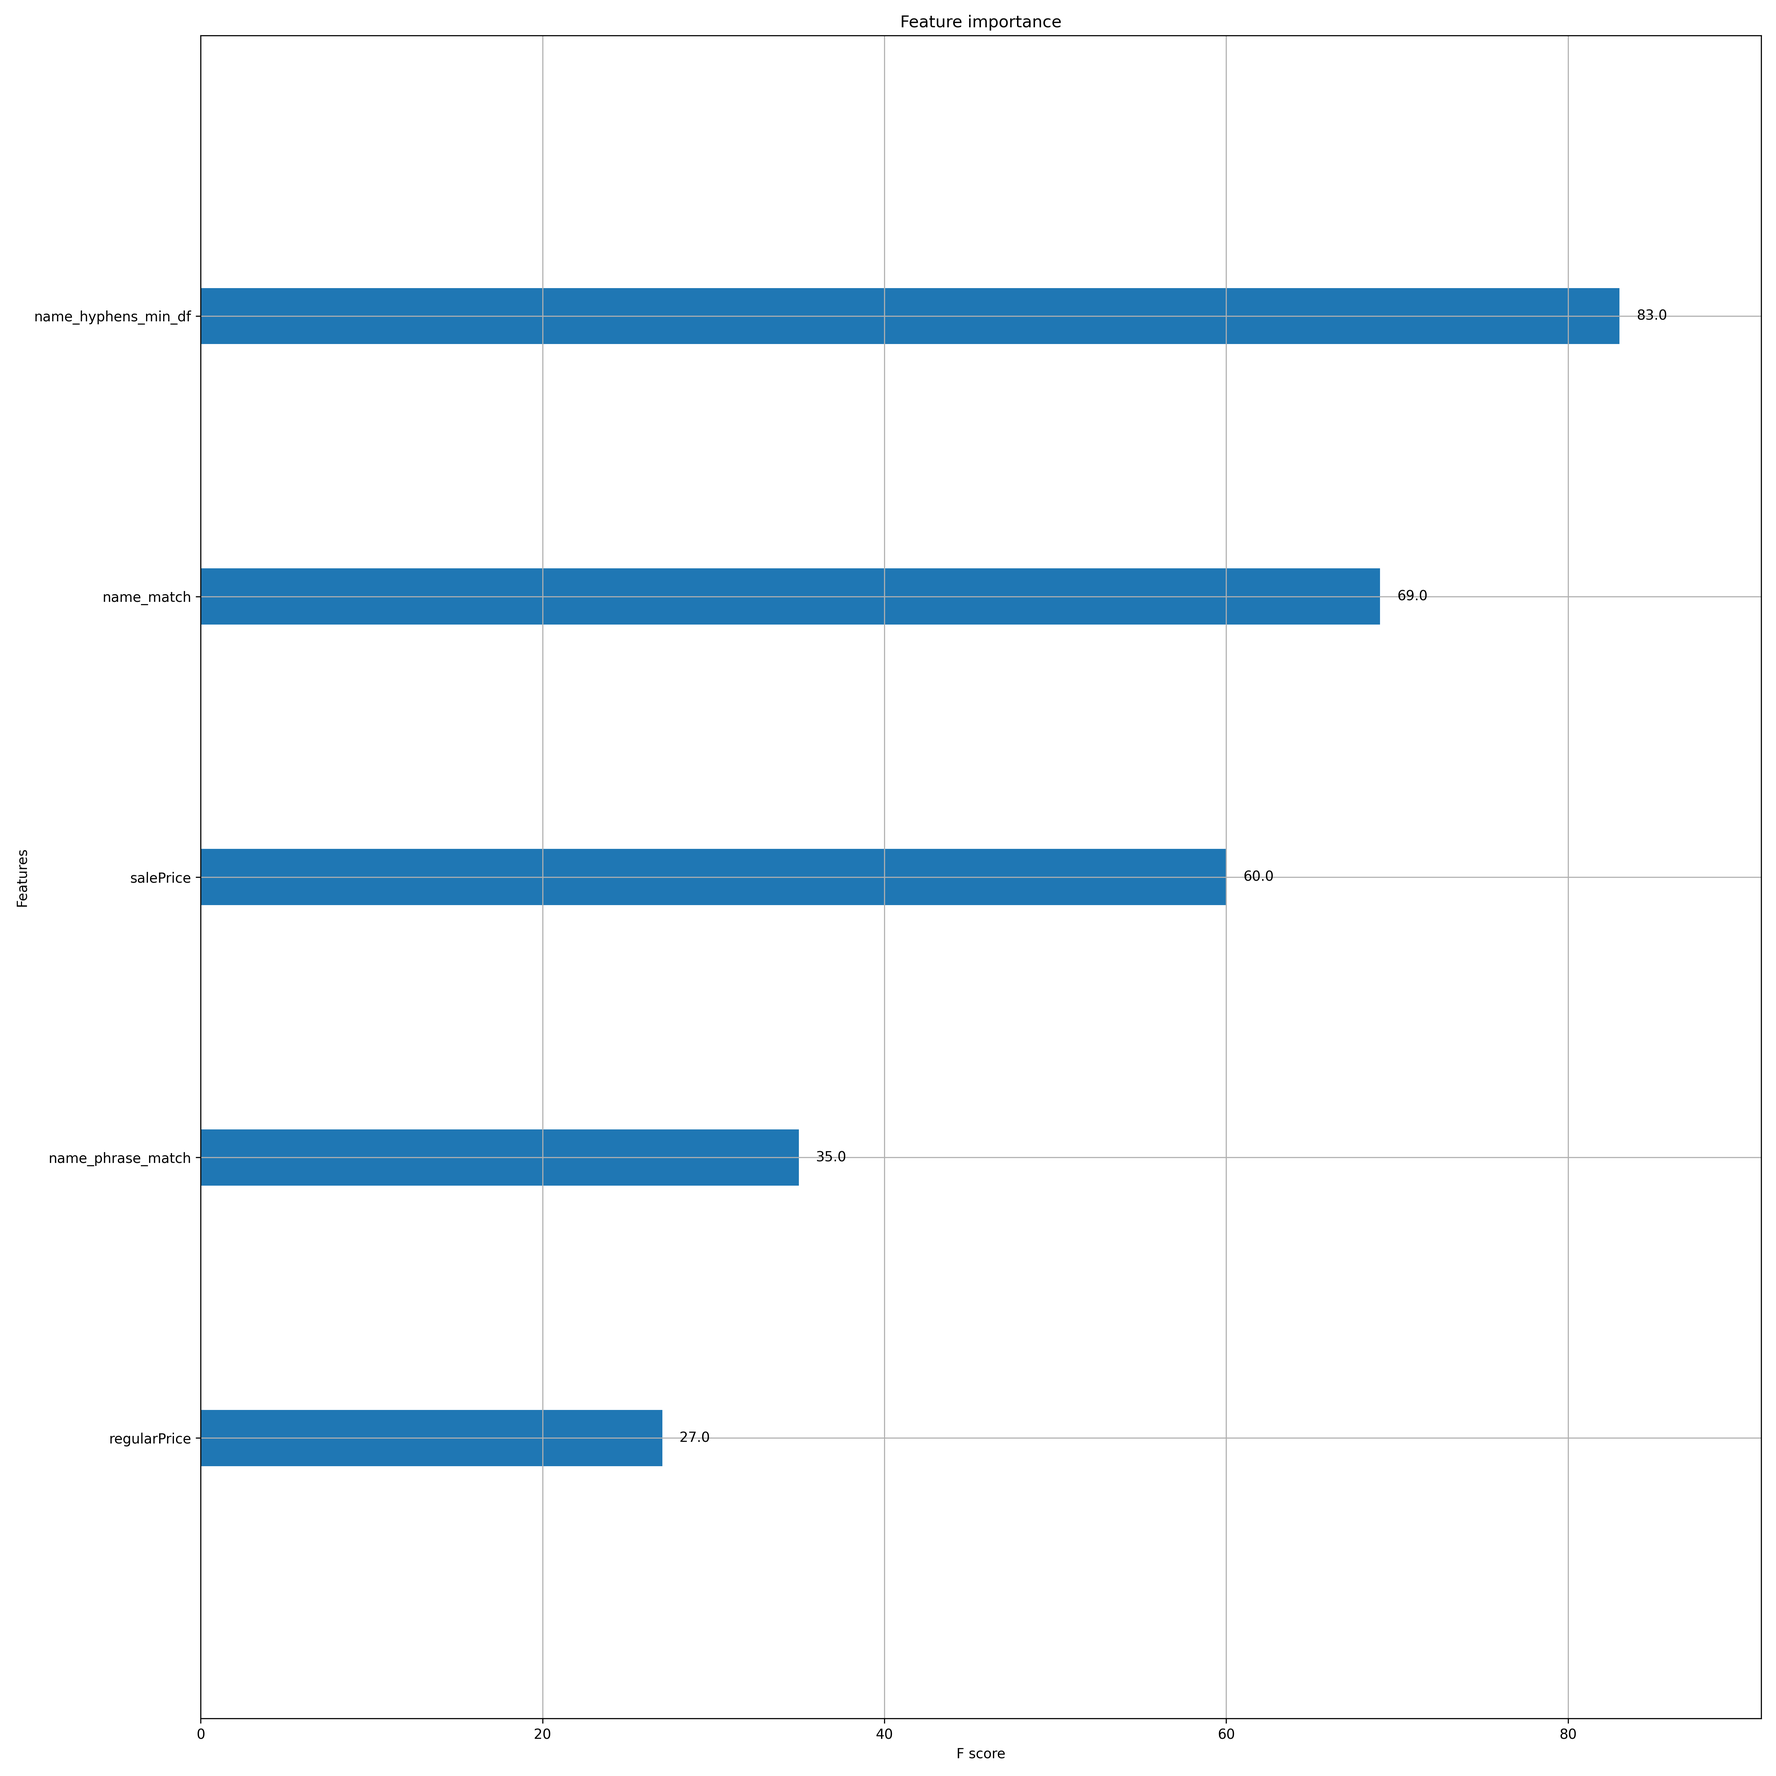
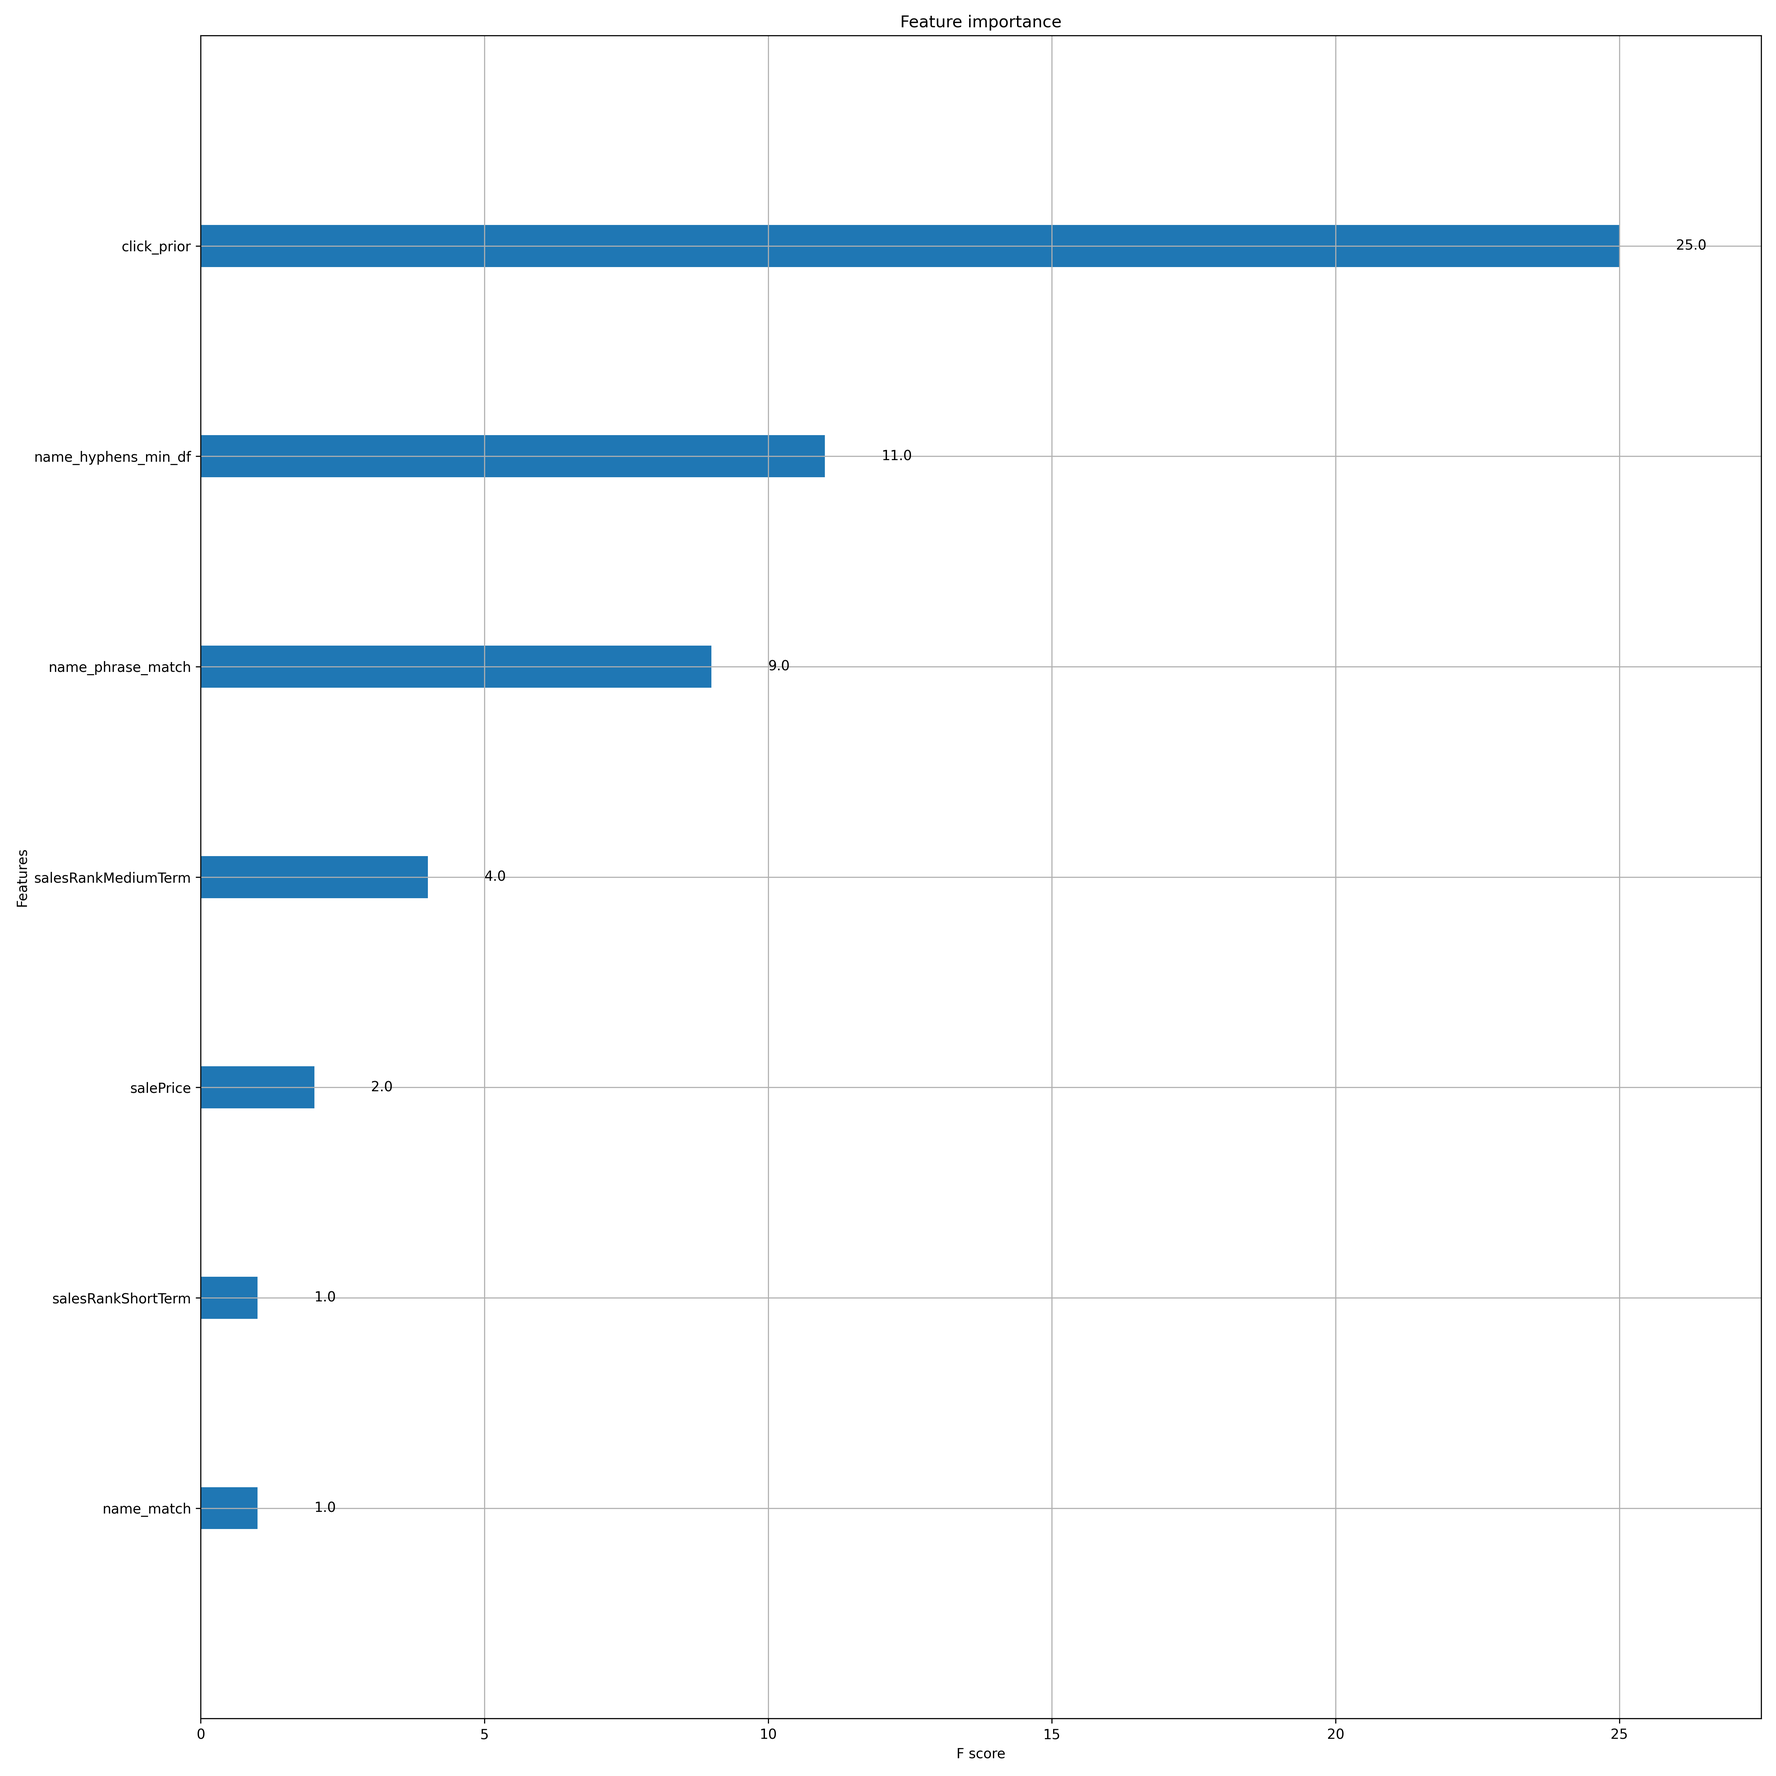
Week 2 Project: Submission

diff --git a/week2/search.py b/week2/search.py
@@ -90,21 +90,33 @@ def query():
         model = request.form.get("model", "simple")
         click_prior = get_click_prior(user_query)
 
+        fields_list = [
+            "productId",
+            "sku",
+            "name",
+            "regularPrice",
+            "salePrice",
+            "salesRankShortTerm",
+            "salesRankMediumTerm",
+            "salesRankLongTerm",
+            "image"
+        ]
+
         if model == "simple_LTR":
-            query_obj = qu.create_simple_baseline(user_query, click_prior, [], sort, sortDir, size=500)  # We moved create_query to a utility class so we could use it elsewhere.
+            query_obj = qu.create_simple_baseline(user_query, click_prior, [], sort, sortDir, size=10, source=fields_list)  # We moved create_query to a utility class so we could use it elsewhere.
             query_obj = lu.create_rescore_ltr_query(user_query, query_obj, click_prior, ltr_model_name, ltr_store_name,
-                                                    rescore_size=500, main_query_weight=0)
+                                                    rescore_size=500, main_query_weight=0, rescore_query_weight=1)
             print("Simple LTR q: %s" % query_obj)
         elif model == "ht_LTR":
-            query_obj = qu.create_query(user_query, click_prior, [], sort, sortDir, size=500)  # We moved create_query to a utility class so we could use it elsewhere.
+            query_obj = qu.create_query(user_query, click_prior, [], sort, sortDir, size=500,source=fields_list)  # We moved create_query to a utility class so we could use it elsewhere.
             query_obj = lu.create_rescore_ltr_query(user_query, query_obj, click_prior, ltr_model_name, ltr_store_name,
                                                     rescore_size=500, main_query_weight=0)
             print("LTR q: %s" % query_obj)
         elif model == "hand_tuned":
-            query_obj = qu.create_query(user_query, click_prior, [], sort, sortDir, size=100)  # We moved create_query to a utility class so we could use it elsewhere.
+            query_obj = qu.create_query(user_query, click_prior, [], sort, sortDir, size=100, source=fields_list)  # We moved create_query to a utility class so we could use it elsewhere.
             print("Hand tuned q: %s" % query_obj)
         else:
-            query_obj = qu.create_simple_baseline(user_query, click_prior, [], sort, sortDir, size=100)  # We moved create_query to a utility class so we could use it elsewhere.
+            query_obj = qu.create_simple_baseline(user_query, click_prior, [], sort, sortDir, size=100, source=fields_list)  # We moved create_query to a utility class so we could use it elsewhere.
             print("Plain ol q: %s" % query_obj)
     elif request.method == 'GET':  # Handle the case where there is no query or just loading the page
         user_query = request.args.get("query", "*")

diff --git a/week2/project2.md b/week2/project2.md
@@ -242,23 +242,101 @@ LTR hand tuned p@10 is 0.263
 Simple better: 1094     LTR_Simple Better: 1321 Equal: 33
 HT better: 1334 LTR_HT Better: 1350     Equal: 25
 
+**Features Importance:**
+
+![Features Importance](../ltr_model_importance.png)
+
 ### Level 3: Relevance Judgments on LTR
 
+Using the settings from the last experiment (see run #14 in the previous section), results are noticeable more relevant with the LTR re-scoring (without the base score per run #14) than with the hand-tuned, as illustrated by the few queries below:
 
+## q=lcd tv (Top head query!)
+
+### Hand-Tuned
+
+![Hand-Tuned](./images/lcd_tv__hand_tuned.png)
+
+### LTR #14
+
+![LTR #14](./images/lcd_tv__ltr_14.png)
+
+
+## q=Apple iPad 2
+
+### Hand-Tuned
+
+![Hand-Tuned](./images/apple_ipad_2__hand_tuned.png)
+
+### LTR #14
+
+![LTR #14](./images/apple_ipad_2__ltr_14.png)
+
+## q=playstation 3
+
+### Hand-Tuned
+
+![Hand-Tuned](./images/playstation_3__hand_tuned.png)
+
+### LTR #14
+
+![LTR #14](./images/playstation_3__ltr_14.png)
+
+### Level 4: Explore on your own (Optional)
 
 ## Self Assessment
 
 Project Self Assessment
-1. Do you understand the steps involved in creating and deploying an LTR model? Name them and describe what each step does in your own words.
-2. What is a feature and featureset?
-3. What is the difference between precision and recall?
-4. What are some of the traps associated with using click data in your model?
-5. What are some of the ways we are faking our data and how would you prevent that in your application?
-6. What is target leakage and why is it a bad thing?
-7. When can using prior history cause problems in search and LTR?
-8. Submit your project along with your best MRR scores
-Peer Review Questions
-1. What are 1 or 2 things they did well in the homework?
-2. What are 1 or 2 concrete ways they could improve their work?
-3. If they indicated that they were stuck and/or want focused feedback please provide responses if you can...
-4. Feel free to add words of encouragement as well!
+1. Do you understand the steps involved in creating and deploying an LTR model? Name them and describe what each step does in your own words. The steps below are applicable for OpenSearch, Elasticsearch, and Solr:
+    1. Create/Engineer an LTR features sets and models "store" in the search engine. Any number of stores may be created.
+    1. Create and upload a features set to the store.
+    1. Create the training and test data. This step may involve many sub-steps, such as:
+        - First of all, the whole LTR workflow assumed that some form of "query logs" are available, which provide timestamped information on queries, their top-N results, which documents were interacted with (click, download, etc.), and/or which documents were explicitely human-judged. In this class, we were provided click logs, although without the "impression" information (i.e., the top-N results for each query).
+        - In good Machine Learning form, split the query/click logs between train and test data.
+        - When using a "Implicit Behavioral Judgments" methodology, design, develop, and apply a "Click Model" to the train data to generate/infer judgments/ratings for each click. This is typically undertaken by a Data Science team, and is in itself an entire project.
+        - Produce the training data in the format required by the chosen Machine Learning library (e.g., ```xgboost```, ```ranklib```, etc.) Both the xgboost and ranklib use the same SVM Rank format, as shown below:
+        ```
+        0.0000  qid:1524        1:0.0000        2:0.0000        3:5345.0000     4:699.9900      5:699.9900      6:1000000.0000  7:41070.0000    8:49481.0000    9:0.0120 # any comment
+        1.0000  qid:2900        1:15.5865       2:15.5865       3:28.0000       4:499.9900      5:499.9900      6:1000000.0000  7:1000000.0000  8:62169.0000    9:0.3010 # any comment
+        0.7500  qid:92  1:11.8900       2:11.8900       3:325.0000      4:169.9900      5:169.9900      6:1000000.0000  7:1000000.0000  8:128879.0000   9:0.1340 any comment
+        1.0000  qid:15  1:0.0000        2:0.0000        3:340282349999999991754788743781432688640.0000  4:699.9900      5:699.9900      6:1000000.0000  7:104379.0000   8:106379.0000   9:0.9350 any comment
+        0.5000  qid:2286        1:10.6966       2:0.0000        3:709.0000      4:49.9900       5:49.9900       6:1000000.0000  7:103508.0000   8:106097.0000   9:0.0980 # any comment
+        ```
+        - Train the LTR model with the training data.
+        - Test the model against the test data.
+        - Repeat the above procedure (Features set tuning - Click Model tuning - train - test) until some level of satisfaction is reached (i.e., certain search & relevancy off-line testing metrics are met; This is completely unique to each organiztion and application).
+        - Deploy the model for an A/B test with real end-users.
+        - Analyze the A/B test results, and repeat the whole procedure again.
+        - Deploy the model to production if the A/B test was successful.
+        - Repeat the above for ever to keep the model up-to-date with business requirements, market or world events, end-users' changing behavior, new features, etc.
+1. What is a feature and featureset?
+    1. Feature: A feature is any information (often called "signal" in Search Relevancy) which is deemed useful in determining the fitness of a document (index item) to a given search use case. The feature may be query-dependent, such as whether the search terms match one or more fields in the document (e.g., TF, IDF, BM25, and other stats provided by the search engine), or query-independent such as "recency" (when the document was created; e.g., a new inventory item, or a news article, etc.), some popularity measure (e.g., number of times the document was clicked on regardless of the queries), the length of the document, the number of items left in inventory, whether the document is on Sale, etc.
+    1. Featureset: A features set is a group of features set, which is used at both training and search times to extract the features values from the query-matched documents.
+1. What is the difference between [precision and recall](https://en.wikipedia.org/wiki/Precision_and_recall#:~:text=Recall%20is%20the%20number%20of,documents%20retrieved%20by%20that%20search.)?
+    1. Recall: Technically, the ratio ```number of retrieved relevant documents in the index``` / ```number of all relevant documents in teh index``` for any given query. In practice (in my experience), ```recall`` is used in every day conversations to mean the set of matched documents, and can be used as a search metric to measure that the search application is matching the expected documents.
+    1. Precision: Technically, the ratio ```number of relevant documents retrieved``` / ```Number of documents retrieved```. In practice, ```precision``` is used in every day conversations to make qualitative statements about the relevancy of the top results. Regardless of ```recall```, a "high" precision result denotes a system that returns highly relevant results at the top, while a "low" precision system returns irrelevant or low-relevancy results at the top.
+    1. Precision vs. Recall: Based on both the technical and practical definitions, ```precision``` and ```recall``` measure different behaviors: Again, ```precision``` measures **relevancy** more directly (think: Relevancy of page one), while ```recall``` measures **matching** (think: Does page one contain *all* expected documents?) The Search Relevancy literature refers to Precision and Recall in opposite direction; Although I can agree with that at the theorical/mathematical level, in practice, my search clients (I'm a search consultant) seek to satisfy both Recall (make sure the system matches all expected relevant docs) and Precision (make sure that the system ranks the matched documents properly). 
+1. What are some of the traps associated with using click data in your model?
+    1. Overall, at a very high level, click data is a very imperfect proxy to actual human behaviors. Hence, if possible, collected human (explicit) judgments from domain SMEs is a "better" approach (there are also many challenges in human judgments: bias, disagreements across judges, etc.) Some companies collect both explicit and implicit judgments, and may (or will!) get different search metrics (NDCG, MRR) values; Then, what do you do? Maybe use explicit judgments during off-line training and testing, and use the implicit judgments (clicks) during on-line A/B testing.
+    1. Individual clicks do not necessarily translate to relevancy. Often, one has to click on a result to assess whether it is relevant or not. Therefore, the overall behavior during a complete information retrieval session might have to be processed in order to assess relevancy, and consider factors such as: What was the dwell time on any clicked document? Was there a subsequent action that is a better signal/proxy of relevancy, such as a download, add to cart, etc.
+    1. The relevancy of clicks may diminish with time; Should their impact be decayed with time?
+    1. The relevancy of clicks may also change with a changing index. This is the case where all the clicks for iPhone 12 become irrelevant (or much less relevant) given than iPhone 13 is now in the index. Should all the iPhone 12 clicks be transferred over to iPhone 13?
+    1. All that said, other "tactical" traps" might be:
+        - Make sure that the clicks used in the testing phase were not learned during training; Not doing so leads to "target leaking". In week 2, we ensured that it is true by splitting the train and test click data long the time line.
+        - If the click logs do not contain the rank of the clicked item, the rank will have to be inferred somehow. In week 2, we have used a simplistic heuristic to infer the rank based on the click counts across the clicked documents for a given query: The higher the clicks count, the more the assumed relevancy is.
+        - Downsampling might be necessary to re-balance the clicked documents with the non-clicked documents. Often, the lack of "negative" judgments in the training data may cause the model to underperform at test time against data it has not seen.
+        - The number of clicks in the absolute is not a good relevancy signal; Instead the ratio of number-of-interactions / number-of-impressions is a much better signal: If a document was seen once but also clicked, changes are the document is relevant; Compare that extreme to the case of a document clicked 100 times but seen 1,000,000 times!
+1. What are some of the ways we are faking our data and how would you prevent that in your application?
+    1. The missing impressions (i.e., the top-N documents which were returned or any query) are generated either by: a) Re-running the queries against the current system; One problem with this technique is that there is no guarantee that the collected impressions are those that the end-user saw at the time of the click; b) Synthesize the impressions count for a given query / document by summing all the clicks recorded for the query regardless of the document which was clicked. A better approach overall is to make sure that the original impressions are logged at the time of the query.
+1. What is target leakage and why is it a bad thing?
+    1. Generally in Machine Learning practice, "target leakage" occurs when information used at training time is not available in the future when making predictions. In our application in week 2, using the clicks as predictive features could argueably be considered "leakage". Target leakage is undesirable because it causes the model to learn something that will not be useful at prediction time, hence yielding a poor-performing model.
+1. When can using prior history cause problems in search and LTR?
+    1. We already alluded to some issues above in the "traps":
+        - New relevant items for a given query, e.g., a new LCD TV for a=lcd tv
+        - New version of an item (e.g., a new iPhone version)
+        - Quickly aging click-based relevancy, e.g., in a News search application.
+1. Submit your project along with your best MRR scores
+    1. My best MRR:
+        - Simple MRR is 0.305
+        - LTR Simple MRR is 0.722
+        - Hand tuned MRR is 0.414
+        - LTR Hand Tuned MRR is 0.758
